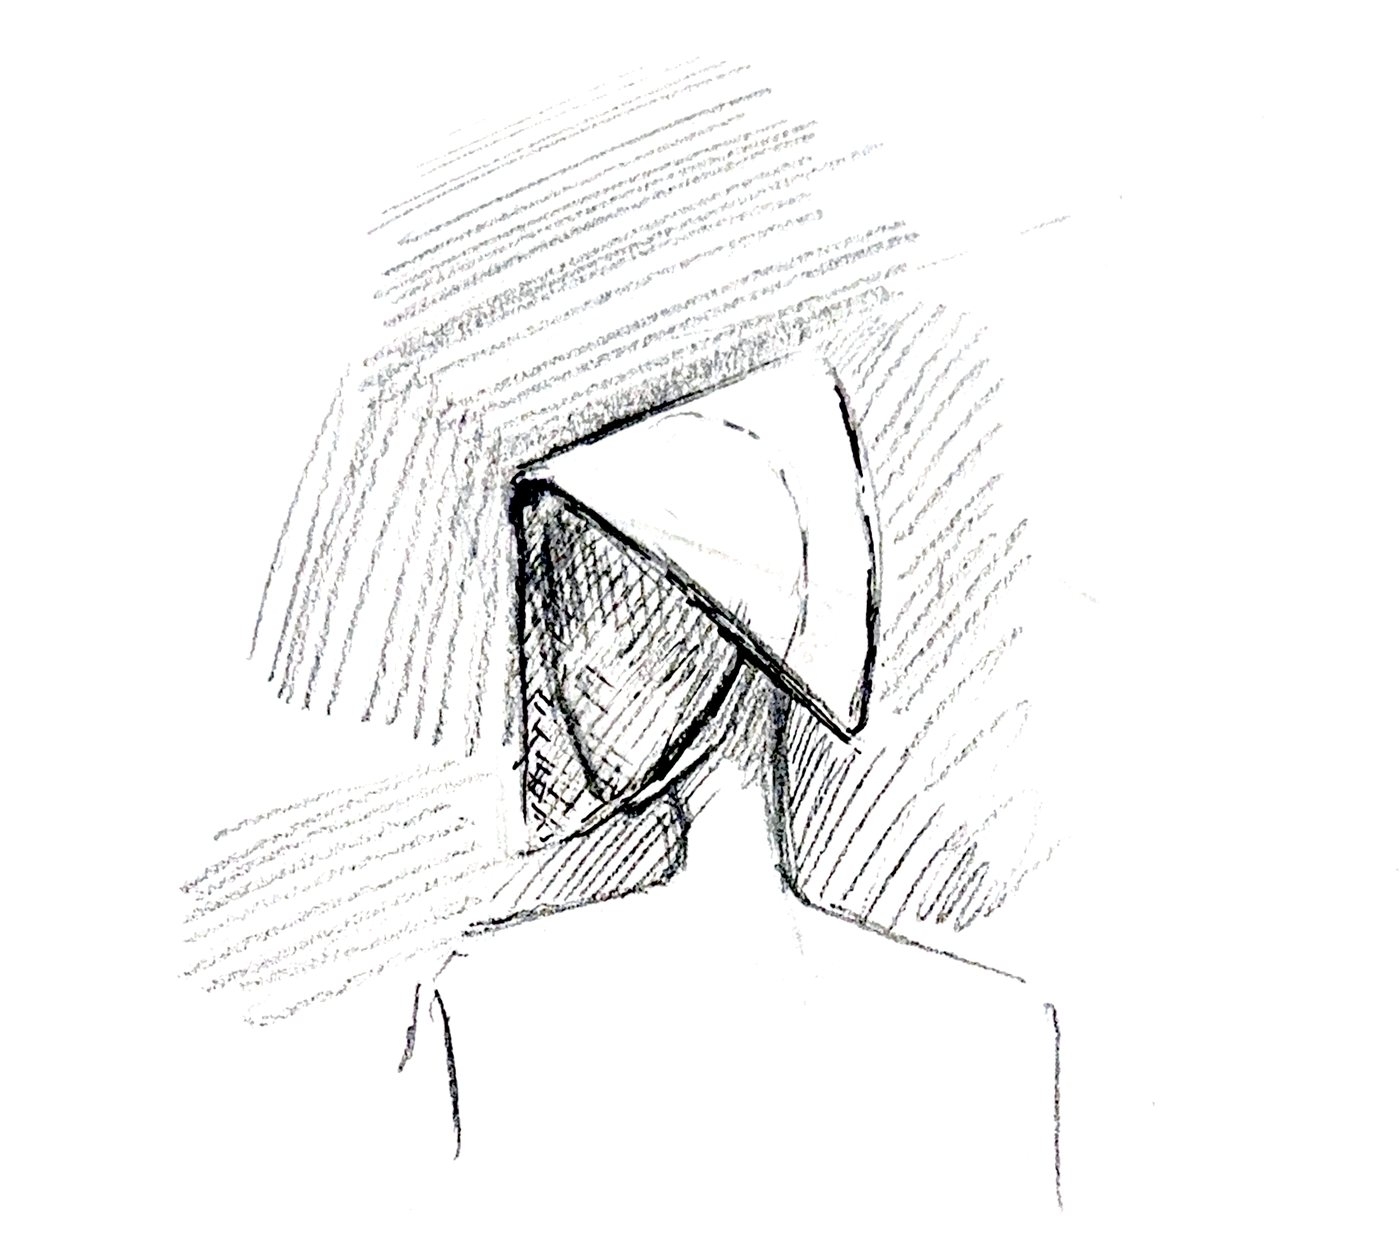
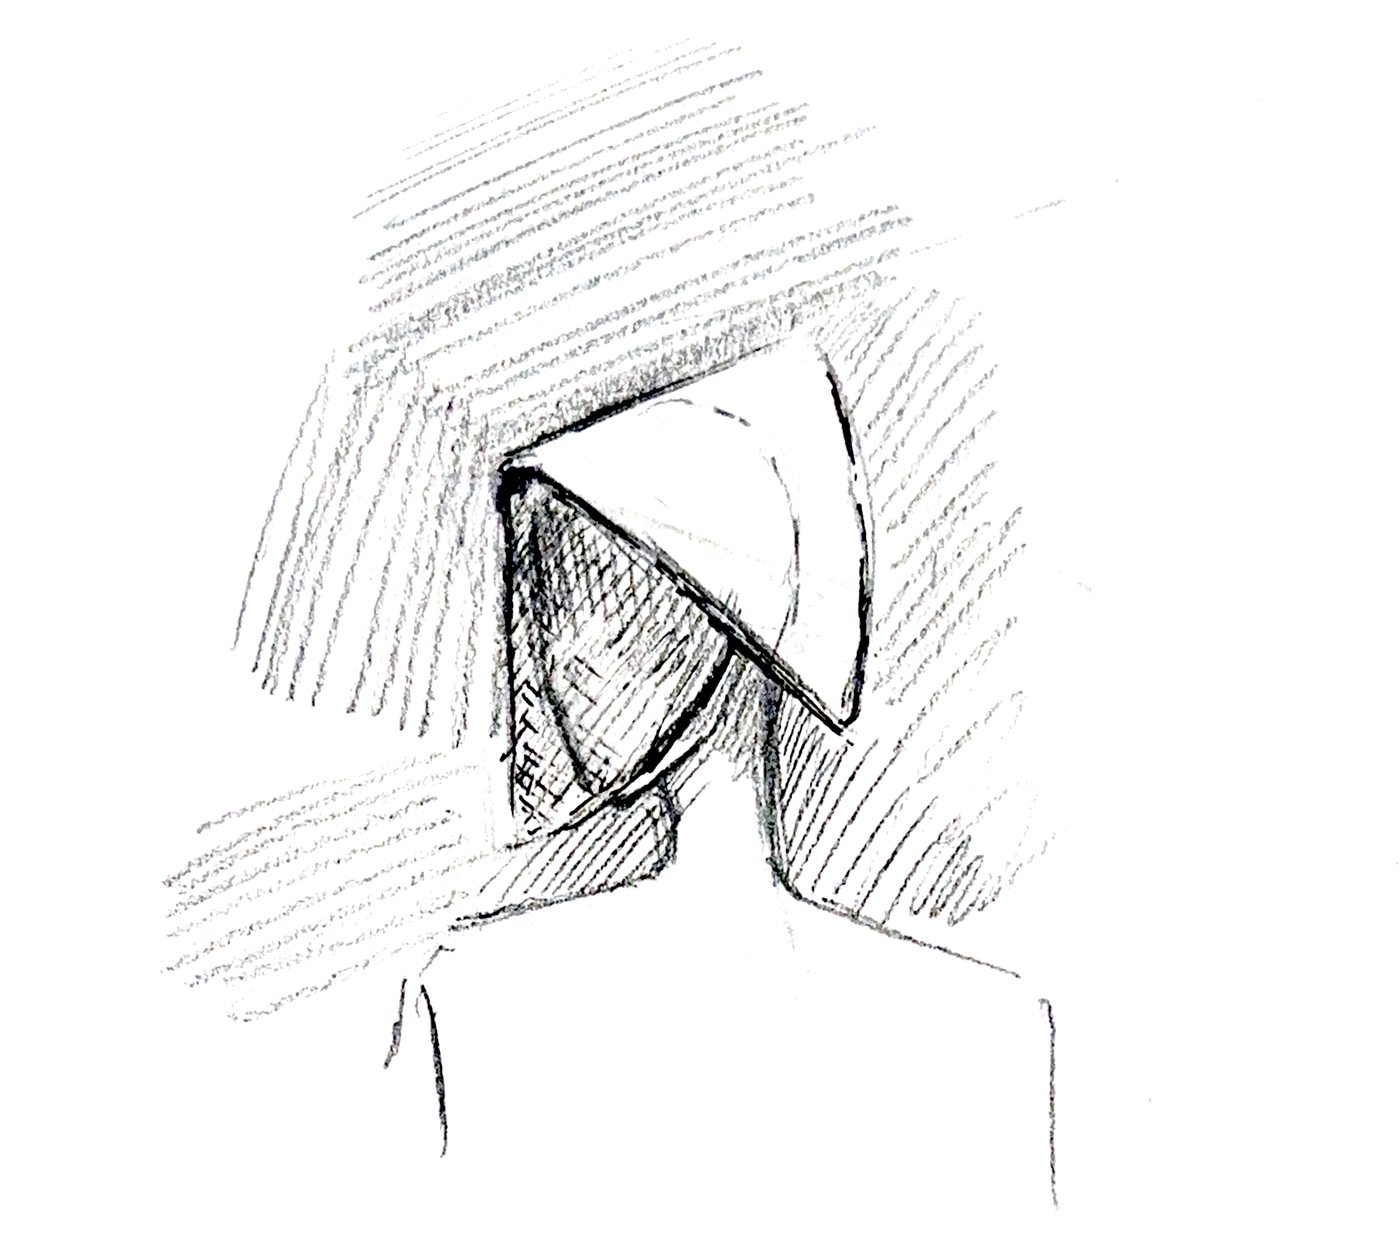
One frame shape per role on The Bonnet
The page had six different aspect ratios competing, which is why it read
as untidy. Now: every section's main image is the same 4:5 portrait frame,
pairs are 3:4, the thumbnail wall is square, and only the two images that
have to be read — the interface states and the construction notes — get a
full-width frame of their own.

Drops the CCTV-detection note (Harry: not needed) and the second pair;
the head-on view moves into the thumbnail wall.

Claude-Session: https://claude.ai/code/session_01JKLHSnRgzCUdxukR89HDsv

diff --git a/bonnet.html b/bonnet.html
@@ -58,7 +58,7 @@
       </div>
 
       <div style="margin-top:clamp(32px,5vw,56px);" class="reveal">
-        <span class="media media--contain fig-narrow" style="aspect-ratio:1400/1245; background:#fff;"><img src="media/tb-concept.jpg" alt="Pencil drawing of a figure wearing the bonnet in profile, the hooded shape shading the face, set against dense hatching" loading="lazy" /></span>
+        <span class="media media--contain fig-narrow" style="aspect-ratio:1400/1244; background:#fff;"><img src="media/tb-concept.jpg" alt="Pencil drawing of a figure wearing the bonnet in profile, the hooded shape shading the face, set against dense hatching" loading="lazy" /></span>
         <p class="figcap fig-narrow">the first drawing — before any of it could detect anything</p>
       </div>
     </div>
@@ -91,13 +91,6 @@
         <p class="figcap">the same bench, seconds apart — hood tipped back to show the veil wound up (left), and the veil let down in front of the face (right). That is the whole interaction</p>
       </div>
 
-      <div style="margin-top:clamp(28px,4vw,44px);" class="reveal">
-        <div class="pair">
-          <span class="media"><img src="media/tb-veiled.jpg" alt="The bonnet seen head-on with the veil down: the face is completely behind gathered translucent fabric" loading="lazy" /></span>
-          <span class="media"><img src="media/tb-mech.jpg" alt="The same stand with the hood removed, showing the servo and spool mounted flat on the crown of the head" loading="lazy" /></span>
-        </div>
-        <p class="figcap">what the camera sees once it has been seen (left) · the mechanism with the hood taken off (right)</p>
-      </div>
     </div>
   </section>
 
@@ -118,15 +111,12 @@
           </div>
         </div>
         <div class="block__media">
-          <span class="media media--contain" style="aspect-ratio:1400/788;"><img src="media/tb-detect.jpg" alt="A crowded street crossing seen from above, with green detection boxes drawn over pedestrians" loading="lazy" /></span>
+          <span class="media media--tall"><img src="media/tb-detect.jpg" alt="A crowded street crossing seen from above, with green detection boxes drawn over pedestrians" loading="lazy" /></span>
           <p class="figcap">the condition the piece answers to</p>
         </div>
       </div>
 
-      <div style="margin-top:clamp(32px,5vw,56px);" class="reveal">
-        <span class="media media--contain" style="aspect-ratio:1700/1244; background:#fff;"><img src="media/tb-flow-scan.jpg" alt="Hand-drawn note: a CCTV camera at the top left aimed at a standing figure, with the caption, once the camera detects the CCTV gaze the protection will work to protect the user's face information" loading="lazy" /></span>
-        <p class="figcap">"once the camera detects the CCTV gaze, the protection will work to protect the user's face information"</p>
-      </div>
+      
 
       <div style="margin-top:clamp(28px,4vw,44px);" class="reveal">
         <span class="media media--contain" style="aspect-ratio:1400/788;"><img src="media/tb-ui.jpg" alt="Two screen states side by side: SAFE, no CCTV detected, cover up; and HIDDEN, a CCTV detected in the camera view with a red box, cover down" loading="lazy" /></span>
@@ -147,20 +137,23 @@
           <p class="prose" style="margin-top:14px;"><strong>Order of work.</strong> Software first. I got the detection pipeline working before touching the physical build, so that when the mechanism changed, the sensing did not have to.</p>
         </div>
         <div class="block__media">
-          <span class="media media--contain" style="aspect-ratio:4/3;"><img src="media/tb-winch.jpg" alt="Close-up of the winch mechanism mounted on top of the bonnet: a servo with a spool, wired out to a controller" loading="lazy" /></span>
+          <span class="media media--tall"><img src="media/tb-winch.jpg" alt="Close-up of the winch mechanism mounted on top of the bonnet: a servo with a spool, wired out to a controller" loading="lazy" /></span>
           <p class="figcap">the winch that replaced the inflation system</p>
-          <span class="media media--contain" style="margin-top:14px; aspect-ratio:1700/1244; background:#fff;"><img src="media/tb-notes-scan.jpg" alt="Scanned construction notes: two views of the hood with a small outside tunnel for the drawstring, and the rules that decided the fabric — must be soft, must have weight, or add weight at the bottom so it pulls the mesh down" loading="lazy" /></span>
-          <p class="figcap">the notes that decided the fabric: must be soft · must have weight · accumulate it at the hem so it pulls the mesh down</p>
         </div>
+      </div>
+
+      <div style="margin-top:clamp(32px,5vw,56px);" class="reveal">
+        <span class="media media--contain fig-wide" style="aspect-ratio:1700/1244; background:#fff;"><img src="media/tb-notes-scan.jpg" alt="Scanned construction notes: two views of the hood with a small outside tunnel for the drawstring, and the rules that decided the fabric — must be soft, must have weight, or add weight at the bottom so it pulls the mesh down" loading="lazy" /></span>
+        <p class="figcap fig-wide">the notes that decided the fabric: must be soft · must have weight · accumulate it at the hem so it pulls the mesh down</p>
       </div>
 
       <div style="margin-top:clamp(32px,5vw,56px);" class="reveal">
         <div class="wall wall--3">
           <span class="media"><img src="media/tb-arduino.jpg" alt="Early wiring: an Arduino board and a servo on a breadboard" loading="lazy" /></span>
-          <span class="media"><img src="media/tb-bench-down.jpg" alt="The bonnet on the workbench with the veil let down, wired to its controller beside a cutting mat" loading="lazy" /></span>
+          <span class="media"><img src="media/tb-veiled.jpg" alt="The bonnet seen head-on with the veil down: the face is completely behind gathered translucent fabric" loading="lazy" /></span>
           <span class="media"><img src="media/tb-desk.jpg" alt="The bonnet on its stand beside a laptop showing the camera feed" loading="lazy" /></span>
         </div>
-        <p class="figcap">first wiring · on the bench · running against a live feed</p>
+        <p class="figcap">first wiring · the veil down, seen head-on · running against a live feed</p>
       </div>
     </div>
   </section>

diff --git a/styles.css b/styles.css
@@ -299,3 +299,4 @@ html.lb-open .nav{ visibility:hidden; }
 .wall--3{ grid-template-columns:repeat(3,1fr); }
 @media (max-width:760px){ .wall--3{ grid-template-columns:repeat(2,1fr); } }
 .fig-narrow{ max-width:820px; margin-inline:auto; }
+.fig-wide{ max-width:940px; margin-inline:auto; }
